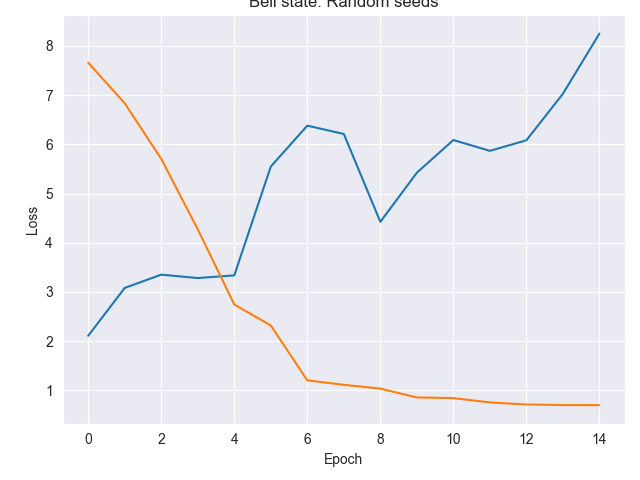
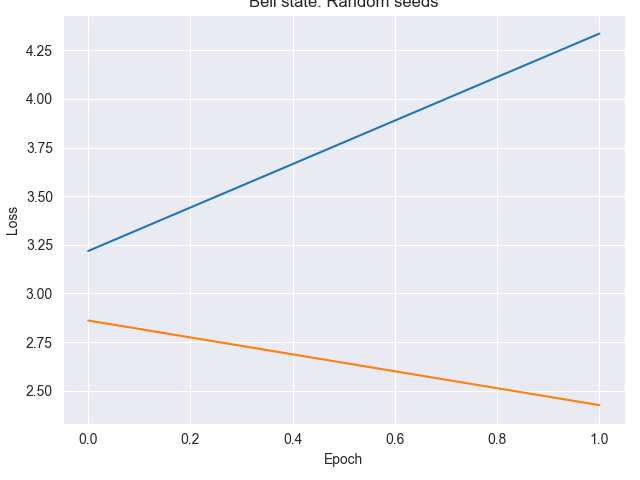
Lets do this!

diff --git a/main.py b/main.py
@@ -9,6 +9,7 @@ xrandr --query to find the name of the monitors
 
 """
 import random
+import copy
 import numpy as np
 import qiskit as qk
 from qiskit.circuit import Parameter, ParameterVector
@@ -336,22 +337,6 @@ def train(H, ansatz, n_epochs, p_data, n_steps=10, lr=0.1, optim_method='Adam', 
     return loss_list, p_QBM
 
 
-ansatz2=  [['ry',0, 0], ['ry',0, 1], ['ry',0, 2], ['ry',0, 3], 
-            ['cx', 3,0], ['cx', 2, 3],['cx', 1, 2], ['ry', 0, 3],
-            ['cx', 0, 1], ['ry', 0, 2], ['ry',np.pi/2, 0], 
-            ['ry',np.pi/2, 1], ['cx', 0, 2], ['cx', 1, 3]]
-            #[gate, value, qubit]
-
-Ham2=     [[1., 'z', 0], [1., 'z', 1], [-0.2, 'z', 0], 
-            [-0.2, 'z', 1],[0.3, 'x', 0], [0.3, 'x', 1]]
-
-p_data2=[0.5, 0, 0, 0.5]
-
-
-ansatz1=    [['ry',0, 0],['ry',0, 1], ['cx', 1,0], ['cx', 0, 1],
-                ['ry',np.pi/2, 0],['ry',0, 1], ['cx', 0, 1]]
-                #[gate, value, qubit]
-Ham1=       [[1., 'z', 0]]
 
 p_data1=[0.8, 0.2]
 
@@ -372,7 +357,7 @@ HU_2=[[[H_U_2[0],'z', 0], [H_U_2[0], 'z', 1]],
 #OMega isnt trained why?
 
 
-def multiple_simulations(n_sims, ansatz2, epochs, target_data, l_r, steps):
+def multiple_simulations(n_sims, ans, epochs, target_data, l_r, steps):
     saved_error=np.zeros((n_sims, epochs))
     
     qbm_list=[]
@@ -382,14 +367,17 @@ def multiple_simulations(n_sims, ansatz2, epochs, target_data, l_r, steps):
         print(f'Seed: {i} of {n_sims}')
         H_U_2=np.random.uniform(low=-1., high=1., size=3)
         print(H_U_2)
-        HU_2=   [[[H_U_2[0],'z', 0], [H_U_2[0], 'z', 1]], 
+        HU_2=   [[[H_U_2[0],'z', 0], [H_U_2[0], 'z', 1]], \
                 [[H_U_2[1],'z', 0]], [[H_U_2[2], 'z', 1]]]
         time_1epoch=time.time()
-        saved_error[i], dist=train(HU_2, ansatz2, epochs, target_data, n_steps=steps, lr=l_r, plot=False)
+        if i==1:
+        #print(f'Ansatz: Please be the same: {ans}')
+            saved_error[i], dist=train(HU_2, copy.deepcopy(ans), epochs, target_data, n_steps=steps, lr=l_r, plot=False)
+            qbm_list.append(dist)
+        #print(f'Ansatz: Please be the same: {ans}')
         time_1epoch_end=time.time()
 
         print(f'Time for one loop: {time_1epoch_end-time_1epoch}')
-        qbm_list.append(dist)
     
 
     epochs_list=list(range(0,epochs))
@@ -471,9 +459,9 @@ def multiple_simulations(n_sims, ansatz2, epochs, target_data, l_r, steps):
 
     return
 
-multiple_simulations(2, ansatz2, 15, p_data2, l_r=0.1, steps=10)
+#multiple_simulations(2, ansatz2, 15, p_data2, l_r=0.1, steps=10)
+#multiple_simulations(2, ansatz2, 2, p_data2, l_r=0.1, steps=1)
 #exit()
-#multiple_simulations(10, ansatz2, 50, p_data2, l_r=0.1, steps=10)
 #multiple_simulations(3, ansatz2, 20, p_data2, l_r=0.01, steps=10)
 #multiple_simulations(10, ansatz2, 50, p_data2, l_r=0.001, steps=10)
 
@@ -641,11 +629,7 @@ def plot_fidelity(n_steps, name=None):
         pass
     return
 
-plot_function=time.time()
-#plot_fidelity(10)#, 'fidelity_H1_H2_new_0_001minC')
-plot_function_end=time.time()
 
-print(f'Time: {plot_function_end-plot_function}')
 
 def find_best_alpha(n_steps, alpha_space, name=None):
     params1= [['ry',0, 0],['ry',0, 1], ['cx', 1,0], ['cx', 0, 1],
@@ -710,3 +694,34 @@ def find_best_alpha(n_steps, alpha_space, name=None):
     return
 
 #find_best_alpha(10, np.logspace(-4,1,5))
+
+def main():
+    learningRate=0.1
+    ite_steps=1
+
+    ansatz2=  [['ry',0, 0], ['ry',0, 1], ['ry',0, 2], ['ry',0, 3], 
+            ['cx', 3,0], ['cx', 2, 3],['cx', 1, 2], ['ry', 0, 3],
+            ['cx', 0, 1], ['ry', 0, 2], ['ry',np.pi/2, 0], 
+            ['ry',np.pi/2, 1], ['cx', 0, 2], ['cx', 1, 3]]
+            #[gate, value, qubit]
+
+    Ham2=     [[1., 'z', 0], [1., 'z', 1], [-0.2, 'z', 0], 
+                [-0.2, 'z', 1],[0.3, 'x', 0], [0.3, 'x', 1]]
+
+    p_data2=[0.5, 0, 0, 0.5]
+
+
+    ansatz1=    [['ry',0, 0],['ry',0, 1], ['cx', 1,0], ['cx', 0, 1],
+                    ['ry',np.pi/2, 0],['ry',0, 1], ['cx', 0, 1]]
+                    #[gate, value, qubit]
+    Ham1=       [[1., 'z', 0]]
+
+
+    multiple_simulations(2, ansatz2, 2, p_data2, l_r=learningRate, steps=ite_steps)
+
+    #plot_fidelity(10)#, 'fidelity_H1_H2_new_0_001minC')
+
+
+
+if __name__ == "__main__":
+    main()
